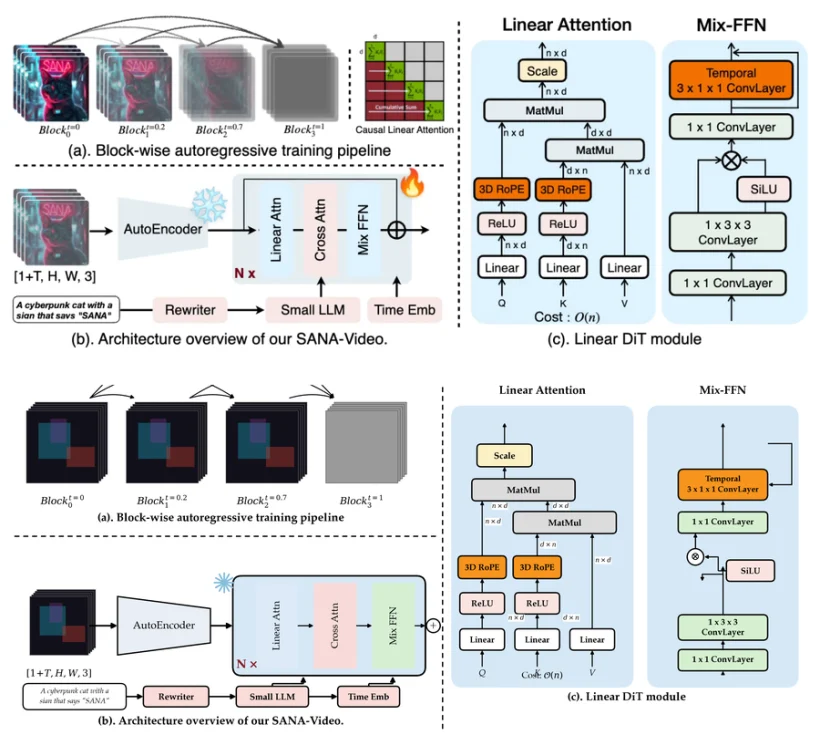
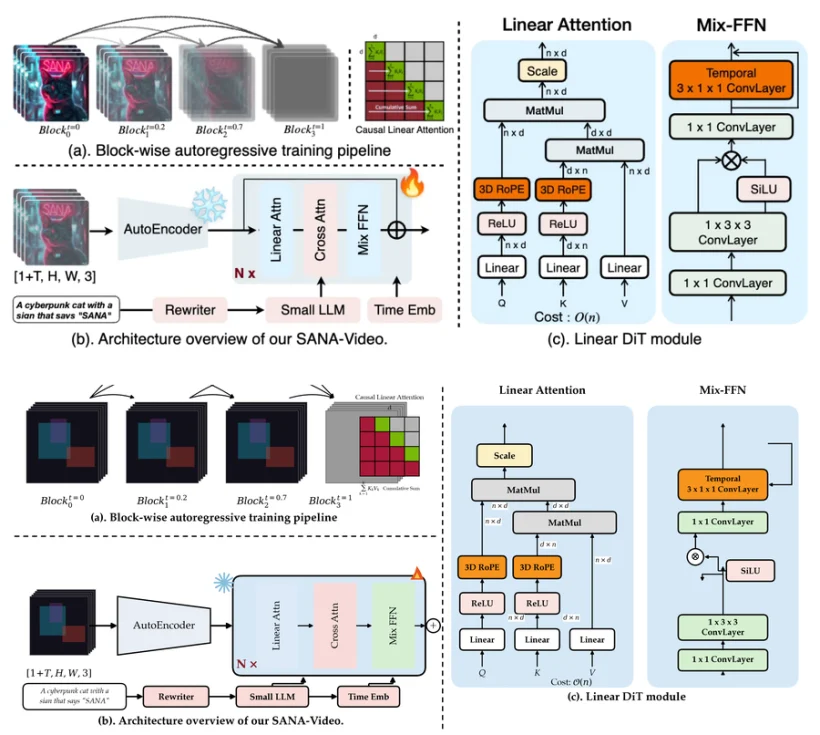
feat(replicas): 05 补齐缺失元素（Causal 小网格 + 火焰图标）
和原图逐块对比后发现两处**内容缺失**（不只是线条问题）：
1. (a) 右端缺少 Causal Linear Attention 小示意图
   （4×4 三色网格 + d 表头 + ΣK_kV_k / Cumulative Sum）
2. (b) N× 框右上角缺少火焰图标（表示扩散生成）

补上后：
- 小网格 4.3×4.3 格子放在 x 100.5-117.7（不越过 x=124.5 的分隔线）
- 火焰用双层 Polygon（外橙内黄）
- Block_3 的标签左移避让小网格
- Cost: O(n) 移到 (162, 12.0) 避开 K 标签

05: AR 2.30（+0.0%）、墨迹 95%
06: AR 3.21（+0.0%）、墨迹 94%
平均 99%，9/10 在 ±15% 内

Changed region(s): [[0.0915, 0.5388, 0.5183, 0.7184], [0.6402, 0.898, 0.7012, 0.9578], [0.4878, 0.7782, 0.5183, 0.8082]]

diff --git a/tools/figlab/frameworks_mpl.py b/tools/figlab/frameworks_mpl.py
@@ -130,7 +130,7 @@ def fig05_arch():
         _stack(ax, x, 82, 21, grey=(i == 3))
     tv = ["0", "0.2", "0.7", "1"]
     for i, x in enumerate(cx):
-        ax.text(x, 68.0, r"$Block_{%d}^{t=%s}$" % (i, tv[i]),
+        ax.text(x - (9.0 if i == 3 else 0), 68.0, r"$Block_{%d}^{t=%s}$" % (i, tv[i]),
                 ha="center", va="top", fontsize=11.5, style="italic")
 
     # 6 条弧线：起于块 i 顶边右侧，止于块 j 顶边左侧
@@ -143,7 +143,23 @@ def fig05_arch():
                 arrowstyle="-|>", mutation_scale=9, color="k",
                 lw=1.1, shrinkA=0, shrinkB=0, zorder=3))
 
-    ax.text(60, 59.5, "(a). Block-wise autoregressive training pipeline",
+    # (a) 右端的 Causal Linear Attention 小示意图
+    mgx, mgy, mcw, mch = 100.5, 73.5, 4.3, 4.3
+    def _mini(r, c):
+        if c == r + 1:
+            return C_GRN2
+        if c <= r:
+            return C_KV
+        return C_MASK2
+    _grid(ax, mgx, mgy, mcw, mch, 4, 4, _mini, lw=0.9)
+    ax.text(mgx + 2 * mcw, mgy + 4 * mch + 1.6, "d", ha="center", va="bottom", fontsize=7.5)
+    ax.text(mgx + 2 * mcw, mgy - 1.6,
+            r"$\sum_{k=1}^{K} K_k V_k$   Cumulative Sum",
+            ha="center", va="top", fontsize=5.8)
+    ax.text(mgx + 2 * mcw, mgy + 4 * mch + 4.6, "Causal Linear Attention",
+            ha="center", va="bottom", fontsize=7.6)
+
+    ax.text(58, 59.5, "(a). Block-wise autoregressive training pipeline",
             ha="center", va="bottom", fontsize=13.5, fontweight="bold")
 
     # ============ (b) 整体架构 ============
@@ -187,6 +203,14 @@ def fig05_arch():
             ax.plot([sx, sx + sgn * 2.8 * np.cos(rad)], [sy, sy + sgn * 2.8 * np.sin(rad)],
                     color="#86BEDB", lw=2.0, solid_capstyle="round", zorder=3)
     ax.add_patch(Circle((sx, sy), 0.6, fc="#86BEDB", ec="none", zorder=4))
+
+    # 火焰图标（N× 框右上角，表示扩散/生成）
+    fx, fy = 117.0, 46.0
+    ax.add_patch(Polygon([[fx - 1.9, fy - 2.6], [fx - 0.6, fy - 0.6], [fx, fy + 1.4],
+                          [fx + 1.1, fy - 0.4], [fx + 2.0, fy - 2.6]],
+                         closed=True, fc="#E8541E", ec="none", zorder=3))
+    ax.add_patch(Polygon([[fx - 0.7, fy - 2.2], [fx + 0.1, fy - 0.5], [fx + 0.9, fy - 2.2]],
+                         closed=True, fc="#F5C242", ec="none", zorder=4))
 
     # 文本分支
     yrow = 9.4
@@ -269,7 +293,7 @@ def fig05_arch():
     _dim(ax, 156.6, (yMMlow + yMMup) / 2, r"$d\times d$")
     _dim(ax, xL + 7.6, (yLin + yReLU) / 2 + 1, r"$n\times d$")
     _dim(ax, xM + 7.6, (yLin + yReLU) / 2 + 1, r"$d\times n$")
-    ax.text(153.5, 14.0, r"Cost: $\mathcal{O}(n)$", ha="center", va="bottom",
+    ax.text(162.0, 12.0, r"Cost: $\mathcal{O}(n)$", ha="center", va="bottom",
             fontsize=10.5)
 
     # ---- Mix-FFN 内部 ----
